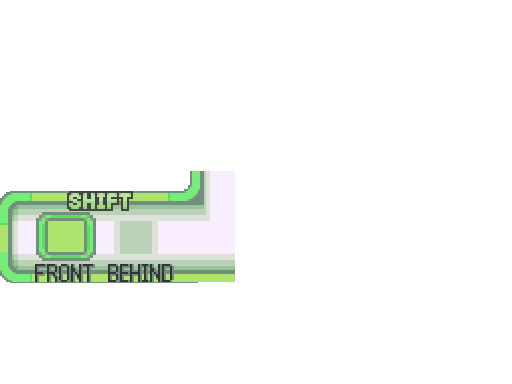
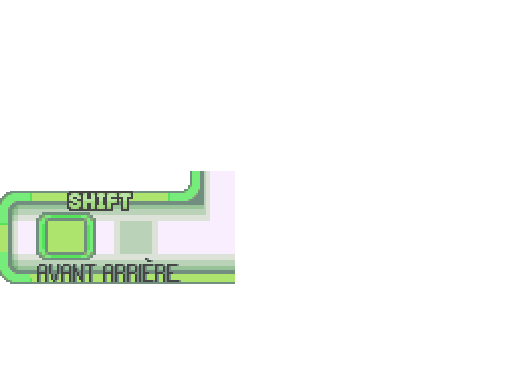
some fix

Changed region(s): [[0.0312, 0.6562, 0.4688, 0.75]]

diff --git a/Data/Scripts/052_AddOns/GameOptions.rb b/Data/Scripts/052_AddOns/GameOptions.rb
@@ -159,7 +159,7 @@ class PokemonGameOption_Scene < PokemonOption_Scene
                               "Afficher les animations d'attaques dans les combats"
     )
 
-    options << EnumOption.new(_INTL("Style de combat"), [_INTL("Switch"), _INTL("Set")],
+    options << EnumOption.new(_INTL("Style de combat"), [_INTL("Choix"), _INTL("Défini")],
                               proc { $PokemonSystem.battlestyle },
                               proc { |value| $PokemonSystem.battlestyle = value },
                               ["Incite à changer de Pokémon avant que l'adversaire n'envoie le suivant",

diff --git a/Data/Scripts/050_Outfits/UI/clothesShop/HatsMartAdapter.rb b/Data/Scripts/050_Outfits/UI/clothesShop/HatsMartAdapter.rb
@@ -212,7 +212,7 @@ class HatsMartAdapter < OutfitsMartAdapter
   end
 
   def getSpecialItemDescription(specialType)
-    hair_situation = !$Trainer.hair || getSimplifiedHairIdFromFullID($Trainer.hair) == HAIR_BALD ? "bald head" : "fabulous hair"
+    hair_situation = !$Trainer.hair || getSimplifiedHairIdFromFullID($Trainer.hair) == HAIR_BALD ? "votre crâne luisant" : "vos magnifiques cheveux"
     return "Sortez sans chapeau et montrez #{hair_situation}!"
   end
 

diff --git a/Data/Scripts/016_UI/001_Non-interactive UI/007_UI_Credits.rb b/Data/Scripts/016_UI/001_Non-interactive UI/007_UI_Credits.rb
@@ -147,13 +147,15 @@ KitsuneKouta<s>xLeD
 Lisa Anthony<s>
 and everyone else who helped out
 
-The French Team who make the vf:
+The French Team who makes the vf:
 Anthony<s>(leader of this project)
 Fragzzh<s>(dev support)
+Orgality<s>(graphic designer)
 Pokebio<s>(helper)
 Vaiga2140<s>(helper)
-rayzek<s>(helper)
+Rayzek<s>(helper)
 Ravens<s>(beta tester)
+Thortue<s>(beta tester)
 
 
 "mkxp-z" by:

diff --git a/Data/Scripts/050_Outfits/UI/clothesShop/HatShopView.rb b/Data/Scripts/050_Outfits/UI/clothesShop/HatShopView.rb
@@ -97,7 +97,7 @@ class HatShopView < ClothesShopView
       @adapter.updateTrainerPreview(itemwindow.item, @sprites["trainerPreview"])
       displayLayerIcons(item)
     else
-      description = _INTL("Quit.")
+      description = _INTL("Quitter.")
     end
     @sprites["itemtextwindow"].text = description
   end

diff --git a/Data/Scripts/050_Outfits/UI/clothesShop/ClothesShopView.rb b/Data/Scripts/050_Outfits/UI/clothesShop/ClothesShopView.rb
@@ -75,7 +75,7 @@ class ClothesShopView < PokemonMart_Scene
           text = @adapter.getDescription(item)
         end
       else
-        text = _INTL("Quit.")
+        text = _INTL("Quitter.")
       end
       @sprites["itemtextwindow"].text = text
       itemwindow.refresh
